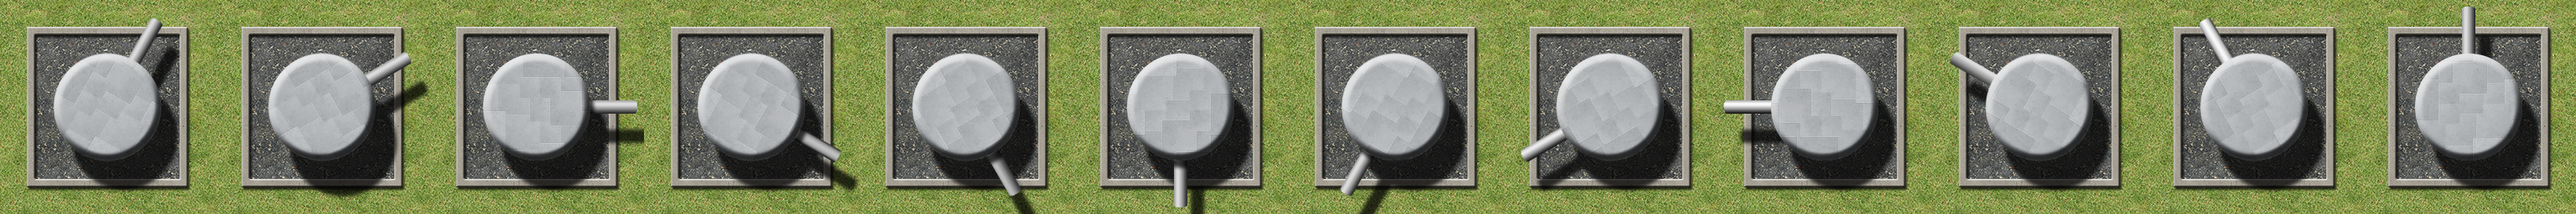
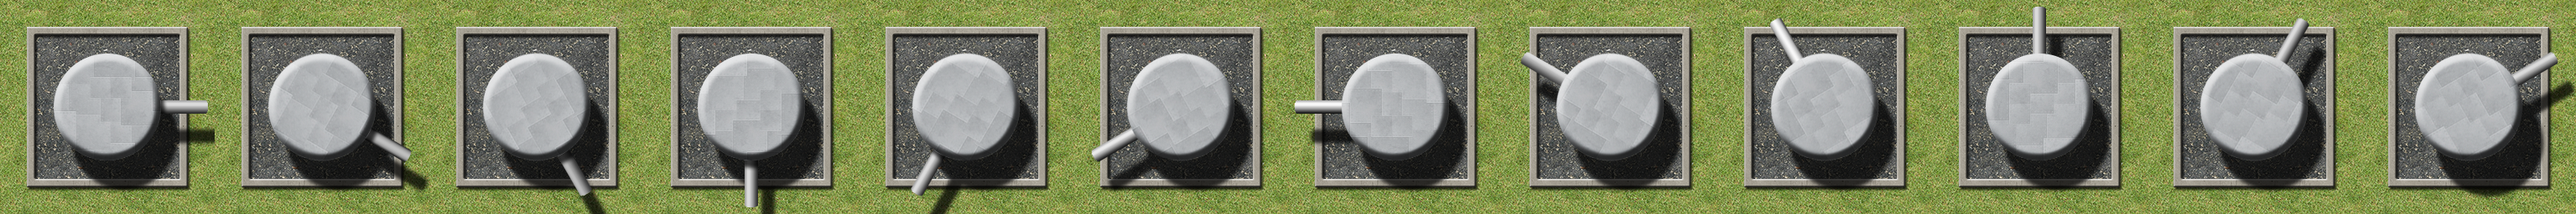
Completed build #1

diff --git a/src/ru/sdevteam/vinv/game/logics/LevelController.java b/src/ru/sdevteam/vinv/game/logics/LevelController.java
@@ -21,10 +21,12 @@ public class LevelController implements IUpdatable, IDrawable
 		modelOfLevel = l;
 		screen=a;
 		Bug[] arrayOfBugs=this.modelOfLevel.getBugs();
-		BugsMover mover= new BugsMover();
+		
+		mover=new BugsMover();
+		mover.setPath(l.getLevelPath());
 		for(int i=0;i<arrayOfBugs.length;i++)
 		{
-			//mover.addBug(arrayOfBugs[i]); //
+			mover.addBug(arrayOfBugs[i]);
 		}
 	}
 
@@ -81,30 +83,35 @@ public class LevelController implements IUpdatable, IDrawable
 			}
 		}
 		
+		mover.update();
+		
 		for (int i = 0; i < arrayOfTowers.length; i++) 
 		{
 			for (int j = 0; j < arrayOfBugs.length; j++) 
 			{
-				 if
-				/* (ArrayOfTowers[i].getShootingRadius()*/(20>=((arrayOfBugs[j].getX()-
-						arrayOfTowers[i].getX())*(arrayOfBugs[j].getX()-arrayOfTowers[i].getX()+(arrayOfBugs[j].getY()-
-						arrayOfTowers[i].getY())*(arrayOfBugs[j].getY()-arrayOfTowers[i].getY()))))
+				Vector2F distanceBugToTower=new Vector2F(arrayOfBugs[j].getX()-arrayOfTowers[i].getX(),
+						arrayOfBugs[j].getY()-arrayOfTowers[i].getY());
+				 if(distanceBugToTower.getMagnitude()<200F)
 				// //bug into radius of Tower )
-				 {	 
+				 {
 					if (arrayOfTowers[i].canShoot()) 
 					{	
 						Bullet b = modelOfLevel.getBullet(	arrayOfTowers[i].getX(),
 															arrayOfTowers[i].getY(),
 															arrayOfTowers[i].getBulletType());
-						Vector2F distanceBugToTower=new Vector2F(arrayOfBugs[j].getX()-arrayOfTowers[i].getX(),arrayOfBugs[j].getY()-arrayOfTowers[i].getY());
+						
+						
 						float flightTime=distanceBugToTower.getMagnitude()/b.getSpeed();
-						Vector2F displacement= mover.getBugVelocity(arrayOfBugs[j]);
+						
+						Vector2F displacement=mover.getBugVelocity(arrayOfBugs[j]);
 						displacement.multipleBy(flightTime);
 						distanceBugToTower.add(displacement);
-						arrayOfTowers[i].rotate(distanceBugToTower.getDirection());
-						Vector2F vectorOfBulletSpeed = new Vector2F(distanceBugToTower,b.getSpeed());
+						
+						Vector2F vectorOfBulletSpeed = new Vector2F(distanceBugToTower, b.getSpeed());
 						b.setVelocity(vectorOfBulletSpeed);
 						arrayOfTowers[i].shoot();
+						
+						arrayOfTowers[i].rotate(distanceBugToTower.getDirection());
 					}
 				}
 			}

diff --git a/src/ru/sdevteam/vinv/game/logics/BugsMover.java b/src/ru/sdevteam/vinv/game/logics/BugsMover.java
@@ -16,18 +16,23 @@ public class BugsMover
 		path = new Path();
 	}
 	
-	private Vector2F getVelocityFor(int part, float speed)
+	private Vector2F getVelocityFor(float x, float y, int part, float speed)
 	{
-		Vector2F deltaR= new Vector2F((path.getPathX(part+1)-path.getPathX(part)),(path.getPathY(part+1)-path.getPathY(part)));
+		Vector2F deltaR=new Vector2F(	(path.getPathX(part+1)-/*path.getPathX(part)*/x),
+										(path.getPathY(part+1)-/*path.getPathY(part)*/y));
 		deltaR.setMagnitude(speed);
 		return deltaR;
 	}
 	public void addBug(Bug item)
 	{
 		BugsMoverItem a = new BugsMoverItem(item);
-		a.velocity = getVelocityFor(0, item.getSpeed());
 		item.setX(path.getPathX(0));
 		item.setY(path.getPathY(0));
+		
+		a.velocity = getVelocityFor(item.getX(), item.getY(), 0, item.getSpeed());
+		
+		item.rotate(a.velocity.getDirection());
+		
 		items.addElement(a);
 	}
 	
@@ -107,7 +112,8 @@ public class BugsMover
 			if (vecBugTosec/vecSec1Tosec>vecBugTosec2/vecSec2Tosec1)
 			{
 				b.section++;
-				b.velocity=getVelocityFor(b.section,b.bug.getSpeed());
+				b.velocity=getVelocityFor(b.bug.getX(), b.bug.getY(), b.section, b.bug.getSpeed());
+				
 				b.bug.rotate(b.velocity.getDirection());
 				if (path.getPointsCount()-2==b.section)
 				{

diff --git a/src/ru/sdevteam/vinv/game/Tower.java b/src/ru/sdevteam/vinv/game/Tower.java
@@ -24,15 +24,15 @@ public class Tower extends Destructable
 
     public Tower()
     {
-     type=Bullet.Type.NORMAL;
-     price=10;
-     shootingRadius=100;
-     sprite= new TowerSprite(this);
-     reloadTimeMillis=500;
+		type=Bullet.Type.NORMAL;
+		price=10;
+		shootingRadius=100;
+		sprite= new TowerSprite(this);
+		reloadTimeMillis=500;
     }
 
 
-     public void shoot()
+	public void shoot()
     {
         if(canShoot())
         {
@@ -62,7 +62,7 @@ public class Tower extends Destructable
     
     public void update()
     {
-        
+        super.update();
     }
 }
 

diff --git a/src/ru/sdevteam/vinv/game/Bug.java b/src/ru/sdevteam/vinv/game/Bug.java
@@ -26,7 +26,7 @@ public class Bug extends Destructable
     }
     public void update()
     {
-
+    	super.update();
     }
 
     public void setType(Type type)
@@ -38,7 +38,7 @@ public class Bug extends Destructable
                          setMaxHp(0);
                          setHp(0);
                          break;
-            case NORMAL: speed=20;
+            case NORMAL: speed=(int)(2+Math.random()*5);
                          setMaxHp(100);
                          setHp(100);
                          break;

diff --git a/src/ru/sdevteam/vinv/main/MainFrame.java b/src/ru/sdevteam/vinv/main/MainFrame.java
@@ -27,8 +27,8 @@ public class MainFrame extends Frame implements MouseListener, KeyListener, Mous
 	
 	public MainFrame()
 	{
-		paintTimer = new Timer("Update");
-		updateTimer = new Timer("Paint");
+		paintTimer = new Timer("Paint");
+		updateTimer = new Timer("Update");
 		
 		Toolkit tool = Toolkit.getDefaultToolkit();
 		Dimension screenSize = tool.getScreenSize();

diff --git a/src/ru/sdevteam/vinv/game/Destructable.java b/src/ru/sdevteam/vinv/game/Destructable.java
@@ -39,4 +39,9 @@ public abstract class Destructable extends GameObject
 
     protected abstract void onDestroyed(); //??? должен вызываться при достижении показателем hp нуля
 
+    @Override
+    public void update()
+    {
+    	super.update();
+    }
 }

diff --git a/src/ru/sdevteam/vinv/game/logics/Path.java b/src/ru/sdevteam/vinv/game/logics/Path.java
@@ -6,10 +6,14 @@ import ru.sdevteam.vinv.utils.Vector2F;
 public class Path
 {
 	private Vector <Vector2F> path;
-	Path()
+	
+	
+	public Path()
 	{
 		path = new Vector<Vector2F>();
 	}
+	
+	
 	public void setCoords(float[] coords)
 	{
 		path.clear();
